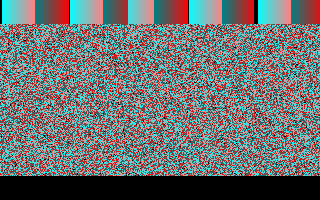
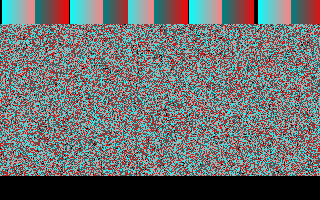
pit: naive Programmable Interrupt Timer impl, makes x.com show graphics

diff --git a/src/cpu.rs b/src/cpu.rs
@@ -13,6 +13,7 @@ use int16;
 use int21;
 use int33;
 use gpu::GPU;
+use pit::PIT;
 use register::{AX, BX, CX, DX, SI, DI, BP, SP, AL, CL, CS, DS, ES, FS, GS, SS};
 use decoder::Decoder;
 use mmu::MMU;
@@ -43,6 +44,7 @@ pub struct CPU {
     pub sreg16: [u16; 6], // segment registers
     pub flags: Flags,
     pub gpu: GPU,
+    pub pit: PIT,
     rom_base: usize,
     pub fatal_error: bool, // for debugging: signals to debugger we hit an error
     pub deterministic: bool, // for testing: toggles non-deterministic behaviour
@@ -58,6 +60,7 @@ impl CPU {
             sreg16: [0; 6],
             flags: Flags::new(),
             gpu: GPU::new(),
+            pit: PIT::new(),
             rom_base: 0,
             fatal_error: false,
             deterministic: false,
@@ -1937,10 +1940,7 @@ impl CPU {
         */
         match port {
             0x0040 => {
-                // Programmable Interval Timer
-                // http://wiki.osdev.org/Programmable_Interval_Timer
-
-                0 // XXX
+                self.pit.read_40()
             },
             0x0060 => {
                 // PS/2 Controller (keyboard & mice) data port

diff --git a/src/pit.rs b/src/pit.rs
@@ -1,0 +1,34 @@
+// Programmable Interval Timer
+// http://wiki.osdev.org/Programmable_Interval_Timer
+//
+// A 8253/8254 chip that runs at 18.2065 Hz (or an IRQ every 54.9254 ms)
+// with the default divisor of 10000h.
+
+use std::num::Wrapping;
+
+#[derive(Clone, Default)]
+pub struct PIT {
+    pub counter0: u16,
+    pub counter0_hi: bool,
+}
+
+impl PIT {
+    pub fn new() -> Self {
+        PIT {
+            counter0: 0,
+            counter0_hi: false,
+        }
+    }
+
+    pub fn read_40(&mut self) -> u8 {
+        // FIXME: counter should decrement on a steady frequency, not on each read
+        let res = if self.counter0_hi {
+            (self.counter0 >> 8) as u8
+        } else {
+            (self.counter0 & 0xFF) as u8
+        };
+        self.counter0 = (Wrapping(self.counter0) - Wrapping(1)).0;
+        self.counter0_hi = !self.counter0_hi;
+        res
+    }
+}

diff --git a/src/lib.rs b/src/lib.rs
@@ -17,6 +17,7 @@ pub mod mmu;
 pub mod memory;
 pub mod segment;
 pub mod gpu;
+pub mod pit;
 
 mod int10;
 mod int16;
